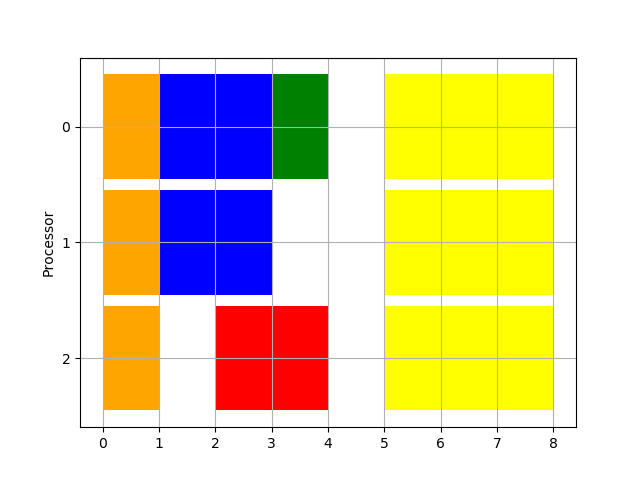
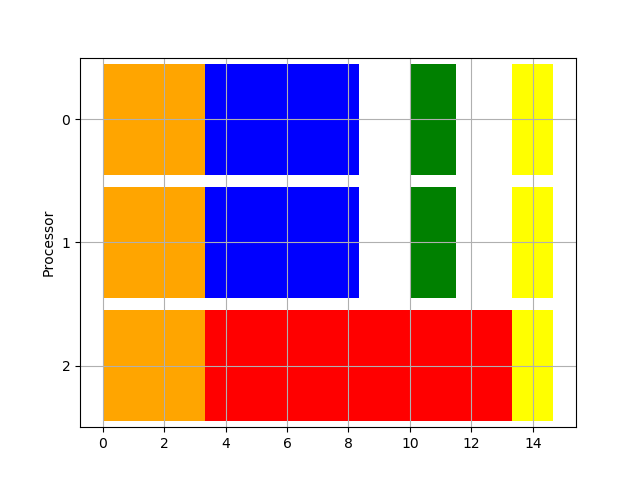
naive algorithm

diff --git a/schedulers/basic.py b/schedulers/basic.py
@@ -1,20 +1,67 @@
-from typing import Callable
+from typing import List
 import matplotlib.pyplot as plt
 
+from schedulers.models import Procesor
+from task import Task
 
-def print_scheduling(scheduling):
+
+class AbstractScheduler:
+
+    def __init__(self):
+        self.procesors: List[Procesor] = []
+        self.clock: float = 0
+
+    def reset(self, n_of_procesors):
+        self.procesors = [Procesor(i) for i in range(n_of_procesors)]
+        self.clock = 0
+
+    def schedule(self, n_of_procesors: int, tasks: List[Task]):
+        self.reset(n_of_procesors)
+        tasks = sorted(tasks, key=lambda x: x.ready)
+        for task in tasks:
+            next_free_events = self.free_events(task.ready)
+            for event in next_free_events:
+                self.clock = event
+                self.on_proc_free_event(event)
+
+            self.clock = task.ready
+            self.on_new_task_event(self.clock, task)
+
+        next_free_events = self.free_events()
+        while len(next_free_events) > 0:
+            for event in next_free_events:
+                self.clock = event
+                self.on_proc_free_event(event)
+            next_free_events = self.free_events()
+
+    def free_events(self, max_time: float = None) -> List[float]:
+        events = sorted(list(set(x.get_next_free_time() for x in self.procesors)))
+        events = [event for event in events if self.clock < event]
+        if max_time is not None:
+            events = [event for event in events if event <= max_time]
+        return events
+
+    def on_new_task_event(self, clock: float, new_task: Task):
+        pass
+
+    def on_proc_free_event(self, clock: float):
+        pass
+
+
+def print_scheduling(scheduling: List[Procesor]):
     colors = ['orange', 'blue', 'red', 'yellow', 'green', 'purple', 'pink', 'gray']
     fig, gnt = plt.subplots()
     gnt.grid(True)
     gnt.set_ylabel('Processor')
+    gnt.set_ylim(0, 10 * len(scheduling))
 
-    gnt.set_yticks([15 + 10 * i for i in range(len(scheduling))])
-    gnt.set_yticklabels([i for i in reversed(range(len(scheduling)))])
+    gnt.set_yticks([5 + 10 * i for i in range(len(scheduling))])
+    gnt.set_yticklabels([proc.id for proc in reversed(scheduling)])
 
     for i, proc in enumerate(reversed(scheduling)):
-        for j, tj in enumerate(proc):
-            start, end, t_id = tj
+        for j, task in enumerate(proc.tasks):
+            t_id = task.task.id
             color = colors[t_id % len(colors)]
-            gnt.broken_barh([(start, end-start)], (10.5 + 10 * i, 9), facecolors=color)
+            gnt.broken_barh([(task.start, task.end - task.start)], (0.5 + 10 * i, 9), facecolors=color, label=str(t_id))
 
     plt.savefig("output/gantt.png")

diff --git a/schedulers/naive.py b/schedulers/naive.py
@@ -1,0 +1,39 @@
+from typing import List
+
+from schedulers.basic import AbstractScheduler
+from schedulers.models import ExecutingTask
+from task import Task
+
+
+class NaiveScheduler(AbstractScheduler):
+
+    def __init__(self):
+        super().__init__()
+        self.queue: List[Task] = []
+
+    def reset(self, n_of_procesors):
+        super().reset(n_of_procesors)
+        self.queue = []
+
+    def on_new_task_event(self, clock: float, new_task: Task):
+        self.queue.append(new_task)
+        self.try_execute_queue(clock)
+
+    def on_proc_free_event(self, clock: float):
+        self.try_execute_queue(clock)
+
+    def try_execute_queue(self, clock: float):
+        while len(self.queue) > 0:
+            free_procesors = [p for p in self.procesors if p.is_free(clock)]
+            if len(free_procesors) < self.queue[0].min_resources:
+                return
+            task = self.queue.pop(0)
+            free_procesors = free_procesors[:task.max_resources]
+
+            assigned_resources = len(free_procesors)
+            length = task.calc_length(assigned_resources)
+            end = clock + length
+            executing_task = ExecutingTask(task, clock, end, assigned_resources)
+
+            for p in free_procesors:
+                p.add_task(executing_task)

diff --git a/schedulers/models.py b/schedulers/models.py
@@ -1,0 +1,42 @@
+from typing import List
+
+from task import Task
+
+
+class ExecutingTask:
+
+    def __init__(self, task: Task, start: float, end: float, assigned_resources: int):
+        self.task = task
+        self.start = start
+        self.end = end
+        self.assigned_resources = assigned_resources
+
+    def __str__(self) -> str:
+        return f"ExecutingTask(start:{self.start}, end:{self.end}, task:{self.task})"
+
+
+class Procesor:
+
+    def __init__(self, i: int, tasks: List[ExecutingTask] = None):
+        self.id = i
+        if tasks is None:
+            tasks = []
+        self.tasks: List[ExecutingTask] = tasks
+
+    def __str__(self) -> str:
+        return f"Procesor(id:{self.id}, taks:{self.tasks})"
+
+    def add_task(self, task: ExecutingTask):
+        if len(self.tasks) > 0:
+            last_task = self.tasks[-1]
+            assert last_task.end <= task.start
+        self.tasks.append(task)
+
+    def get_next_free_time(self) -> float:
+        if len(self.tasks) == 0:
+            return 0.0
+        last_task = self.tasks[-1]
+        return last_task.end
+
+    def is_free(self, when: float) -> bool:
+        return self.get_next_free_time() <= when

diff --git a/main.py b/main.py
@@ -1,13 +1,25 @@
+from task import Task
 from generator import Generator
+from schedulers.naive import NaiveScheduler
 from schedulers.basic import print_scheduling
+
+
+def cost_function(task: Task, n: int):
+    return task.base_length / n
+
 
 if __name__ == '__main__':
     print("Start")
-    print_scheduling([
-        [(0, 1, 0), (1, 3, 1), (3, 4, 4), (5, 8, 3), ],
-        [(0, 1, 0), (1, 3, 1), (5, 8, 3), ],
-        [(0, 1, 0), (2, 4, 2), (5, 8, 3), ],
-    ])
+    instance = [
+        Task(0, 0, 1, 10, 10, cost_function),
+        Task(1, 2, 1, 2, 10, cost_function),
+        Task(2, 2, 1, 1, 10, cost_function),
+        Task(4, 10, 1, 3, 3, cost_function),
+        Task(3, 11, 3, 3, 4, cost_function),
+    ]
+    scheduler = NaiveScheduler()
+    scheduler.schedule(3, instance)
+    print_scheduling(scheduler.procesors)
 
     generator = Generator(10000, (1, 10),
                           (1, 1000), (5000, 6000), 0.1,
